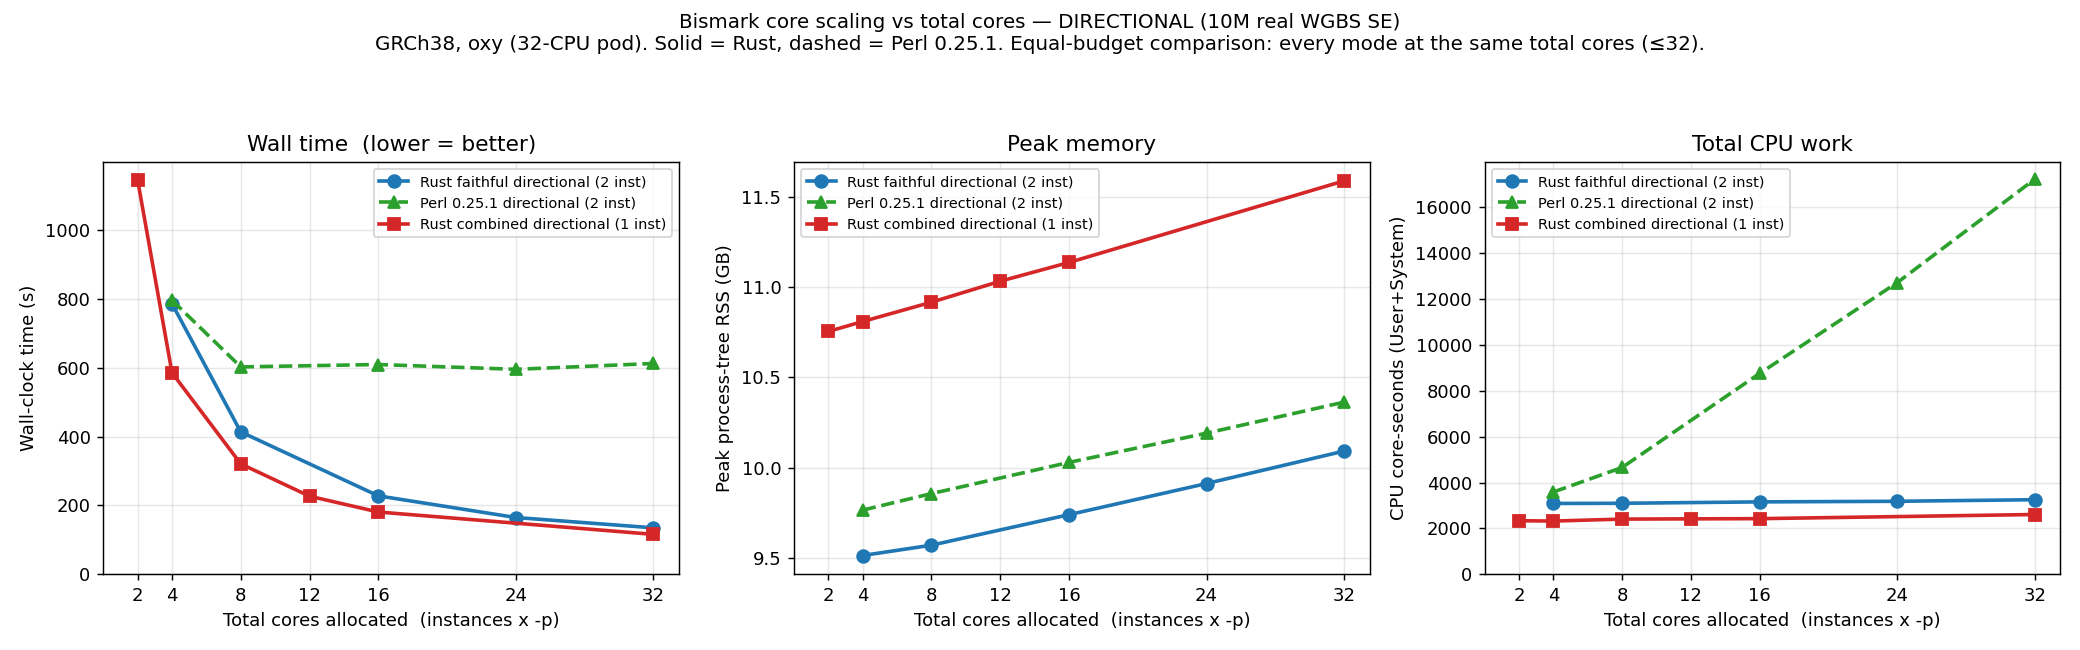
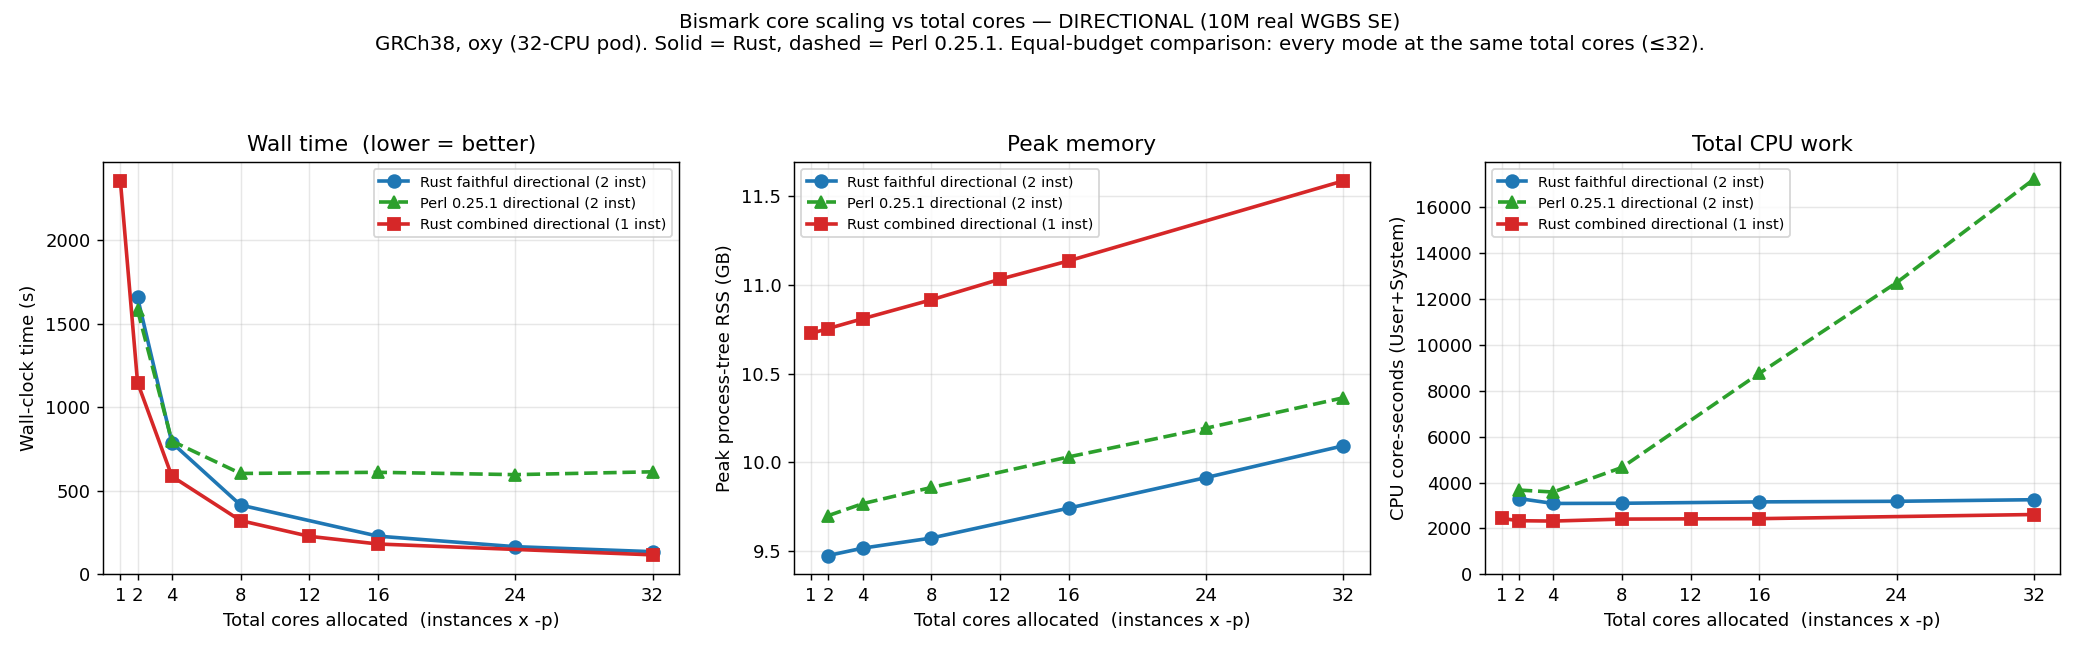
bench(beta): extend scaling graphs to single-threaded default + confirm -p handling is faithful to Perl
Added the no-p single-threaded default baseline (1 core combined / 2 cores 2-inst directional / 4 cores 4-inst non-dir) as the leftmost point of both graphs. Finding: Rust -p handling faithfully replicates Perl — explicit -p1 rejected verbatim by both (Perl bismark:7994, Rust options.rs:130), -p>=2 aligns, no-p=single-threaded default (854 recs == Perl). At the 1-thread floor Perl~=Rust (alignment-bound); curves fan apart as cores rise (Perl plateaus, Rust scales). comb1pass single-threaded (5869s, 20M tagged on 1 thread) is slowest at 1 core but fastest at >=8 cores. Dataset now 31 cells (25 multi-thread + 6 default). Fixed run_scaling_perl.sh PS_LIST (dual-driver bug). Minor port nit: stale 'no alignment performed' summary line (cosmetic).

diff --git a/plans/06092026_bismark-beta/plot_scaling.py b/plans/06092026_bismark-beta/plot_scaling.py
@@ -27,7 +27,7 @@ SECTIONS = {
             "perl_dir":     ("Perl 0.25.1 directional (2 inst)",   "#2ca02c", "^", "--"),
             "comb_dir":     ("Rust combined directional (1 inst)",  "#d62728", "s", "-"),
         },
-        "xticks": [2, 4, 8, 12, 16, 24, 32],
+        "xticks": [1, 2, 4, 8, 12, 16, 24, 32],
     },
     "nondir": {
         "title": "NON-DIRECTIONAL (10M Sherman-simulated SE)",
@@ -36,7 +36,7 @@ SECTIONS = {
             "perl_nondir":     ("Perl 0.25.1 non-dir (4 inst)",              "#2ca02c", "^", "--"),
             "comb1pass":       ("Rust combined single-pass non-dir (1 inst)", "#d62728", "s", "-"),
         },
-        "xticks": [8, 16, 32],
+        "xticks": [4, 8, 16, 32],
     },
 }
 

diff --git a/plans/06092026_bismark-beta/SCALING_RESULTS_core_scaling.md b/plans/06092026_bismark-beta/SCALING_RESULTS_core_scaling.md
@@ -8,6 +8,7 @@
 ## Axis & method (read first)
 - **x = total cores allocated = (Bowtie 2 instances) × `-p`.** Directional faithful/Perl use **2** instances, non-dir faithful/Perl use **4**, the combined modes use **1**. So "total cores", not `-p`, is the fair variable — at the same `-p` the modes would use wildly different core counts.
 - Everything is **capped at 32 cores** (the pod's CPU allocation); no point oversubscribes. Modes line up at the shared **8 / 16 / 32-core** budgets → a fair equal-budget comparison.
+- **Leftmost point of each curve = the single-threaded *default* (no `-p`)**: 1 core for the 1-instance combined modes, 2 cores for the 2-instance directional faithful/Perl, 4 cores for the 4-instance non-dir. This is the config a user gets running `bismark` with no threading flags (see §"-p handling" — explicit `-p 1` is rejected by *both* tools; the default is single-threaded Bowtie 2).
 - Per cell: wall (`SECONDS`), CPU core-seconds (`/usr/bin/time -v` User+System), peak **process-tree** RSS (descendant-PID sampler), max concurrent `bowtie2-align*`. No concordance (correctness already gate-proven; this is pure perf).
 
 ## Graphs
@@ -53,6 +54,23 @@ At equal total cores, **one** Bowtie 2 instance scales better than 2–4 instanc
 ### 3. RAM is index-dominated and flat in cores
 Peak RSS barely moves with core count (the loaded index dominates; per-thread buffers add ~1–1.5 GB across the sweep). The level is set by index *layout*: 1 combined index (~11–12 GB) vs 2 directional (~10 GB) vs 4 non-dir (~16–17 GB). The combined single-pass's single index is the non-directional RAM win.
 
+### 4. `-p` handling — the Rust port is faithful to Perl; the default is single-threaded
+The leftmost point of every curve is the **single-threaded default** (no `-p`). On `-p` handling the Rust port is a **faithful replication of Perl**, verified directly:
+- **Explicit `-p 1` is rejected by *both* tools, verbatim** — Perl `bismark` line 7994 `die "Please select a value for -p of 2 or more!\n" unless ($parallel > 1)` and Rust `options.rs:130` raise the same message. So `-p 1` cannot anchor a graph point in either.
+- **`-p ≥ 2`** → that many Bowtie 2 threads per instance.
+- **No `-p` (default)** → single-threaded Bowtie 2 (Perl line 8257 *"Setting parallelization to single-threaded (default)"*); the Rust port does the same and produces an **identical 854-record BAM** to Perl on the smoke set. *That* is the true "`-p 1`" baseline, and it's what the leftmost points measure.
+
+| single-threaded default (no `-p`) | total cores | wall (s) | CPU core-s | RSS |
+|---|--:|--:|--:|--:|
+| Rust faithful directional | 2 | 1656 | 3302 | 9.47 GB |
+| Perl directional | 2 | 1581 | 3671 | 9.70 GB |
+| Rust combined directional | 1 | 2354 | 2435 | 10.72 GB |
+| Rust faithful non-dir | 4 | 1725 | 6711 | 16.07 GB |
+| Perl non-dir | 4 | 1796 | 7373 | 16.34 GB |
+| Rust combined single-pass | 1 | 5869 | 6008 | 10.72 GB |
+
+At the single-threaded floor **Perl ≈ Rust** (directional 1581 vs 1656s; non-dir 1796 vs 1725s) — both fully alignment-bound — and the curves *fan apart* as cores rise (Perl plateaus, Rust scales). **Caveat on `comb1pass` at 1 core (5869s):** single-threaded it's the *slowest* point on the non-dir graph — one thread over 20M conversion-tagged reads — yet it's the *fastest* mode at ≥ 8 cores (226s at 32). The combined single-pass needs threads to pay off; given a normal core budget it wins on both speed and RAM. *(Minor port nit found en route: the config-summary still prints a stale "no alignment performed" line from Phase-1 dev — cosmetic, alignment runs regardless.)*
+
 ## Scaling efficiency (wall, total-core span)
 | mode | span (cores) | speedup | 
 |---|---|--:|
@@ -70,6 +88,6 @@ Peak RSS barely moves with core count (the loaded index dominates; per-thread bu
 - Shared K8s node: co-tenant load adds (unavoidable, prior-gate-consistent) wall noise.
 
 ## Reproduce / artifacts
-- Harnesses: `run_scaling_rust.sh <reads> <tag> <mode>` (modes: faithful_dir, comb_dir, faithful_nondir, comb1pass; `PS_LIST` env overrides the `-p` set), `run_scaling_perl.sh <reads> <tag> {perl_dir,perl_nondir}`; orchestrated by `master_remaining.sh` + `master2_capped.sh`.
+- Harnesses: `run_scaling_rust.sh <reads> <tag> <mode>` (modes: faithful_dir, comb_dir, faithful_nondir, comb1pass; `PS_LIST` env overrides the `-p` set — `PS_LIST=1` ⇒ single-threaded default, no `-p`), `run_scaling_perl.sh <reads> <tag> {perl_dir,perl_nondir}`; orchestrated by `master_remaining.sh` (comb_dir + Sherman sim + non-dir sweeps), `master2_capped.sh` (32-core-capped totals), `master3_default.sh`/`master3b_default.sh` (single-threaded default baseline).
 - Plot: `MPLCONFIGDIR=<tmp> python3 plot_scaling.py scaling_all_total_cores.tsv <out_dir>` → `directional.png` + `nondir.png`.
-- Raw merged data: `scaling_all_total_cores.tsv` (25 cells; captured off-box from oxy `~/v2spike_out/bench_align_modes/`).
+- Raw merged data: `scaling_all_total_cores.tsv` (**31 cells**: 25 multi-thread + 6 single-threaded defaults; captured off-box from oxy `~/v2spike_out/bench_align_modes/`).